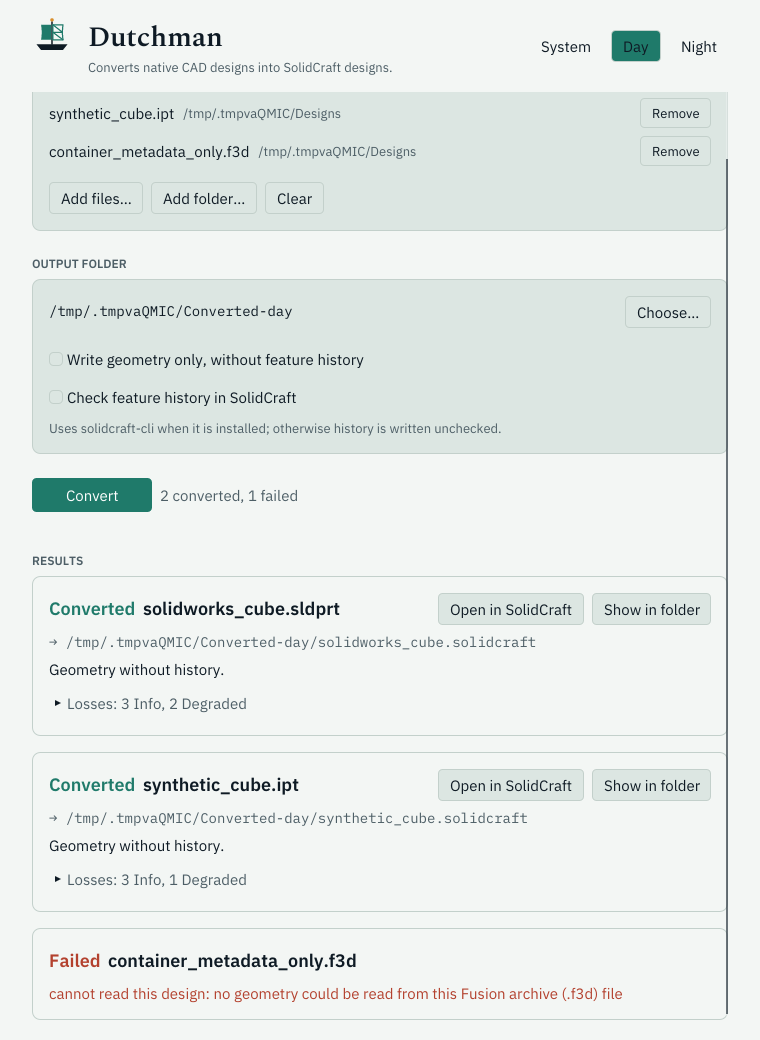
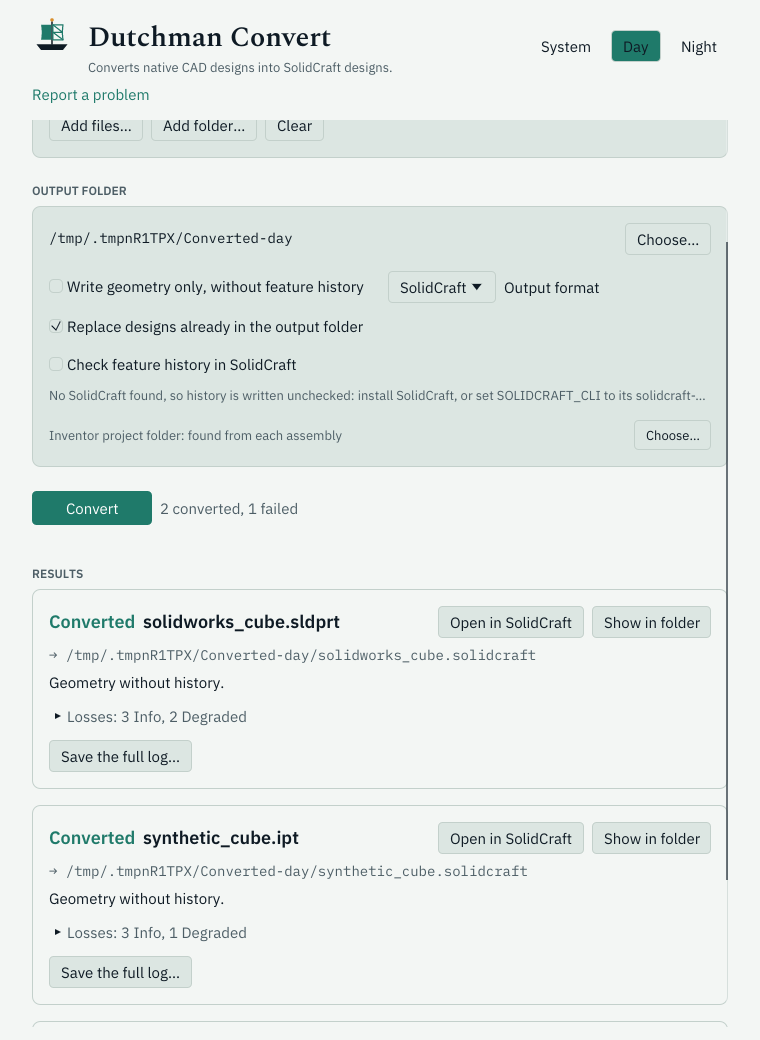
Name the desktop app Dutchman Convert
The app is Dutchman Convert, part of Dutchman CAD: its window title and
heading, the macOS bundle (Dutchman Convert.app) and the disk image's
volume. The README, guide, testing guide and issue form name it so, and
give the old bundle path for 0.1.5 and earlier. The README's screenshots
are rendered again.

The commands (dutchman, dutchman-gui, dutchman-mcp) and their
subcommands, the app id that settings are kept under, the bundle's
identifier and executable, and the download file names stay as they
were.

diff --git a/crates/dutchman-gui/src/lib.rs b/crates/dutchman-gui/src/lib.rs
@@ -1,4 +1,4 @@
-//! `dutchman-gui`: Dutchman as a small desktop app. Drop designs in, choose an output folder,
+//! `dutchman-gui`: Dutchman Convert, Dutchman as a small desktop app. Drop designs in, choose an output folder,
 //! convert, and read what became of each file. Conversions use the same shared code as the
 //! `dutchman` command, on background threads, so the window never waits on them.
 
@@ -9,8 +9,11 @@ pub mod worker;
 
 pub use app::App;
 
+/// The app's name, as its window and the macOS app bundle show it.
+pub const APP_NAME: &str = "Dutchman Convert";
+
 /// The desktop window's title, including the version of this build.
-pub const WINDOW_TITLE: &str = concat!("Dutchman ", env!("CARGO_PKG_VERSION"));
+pub const WINDOW_TITLE: &str = concat!("Dutchman Convert ", env!("CARGO_PKG_VERSION"));
 
 /// The issue form for a file that did not convert.
 pub const REPORT_PROBLEM_URL: &str = dutchman::issue::NEW_ISSUE;

diff --git a/crates/dutchman-gui/src/app.rs b/crates/dutchman-gui/src/app.rs
@@ -37,7 +37,7 @@ pub struct Row {
     pub job: Option<Job>,
 }
 
-/// Dutchman's window.
+/// Dutchman Convert's window.
 pub struct App {
     inputs: Vec<PathBuf>,
     out_dir: Option<PathBuf>,
@@ -346,7 +346,7 @@ impl App {
             ui.add_space(theme::SPACE_2);
             ui.vertical(|ui| {
                 ui.spacing_mut().item_spacing.y = 0.0;
-                ui.label(RichText::new("Dutchman").text_style(theme::title()));
+                ui.label(RichText::new(crate::APP_NAME).text_style(theme::title()));
                 ui.label(
                     RichText::new("Converts native CAD designs into SolidCraft designs.")
                         .small()

diff --git a/crates/dutchman-gui/tests/ui.rs b/crates/dutchman-gui/tests/ui.rs
@@ -52,7 +52,7 @@ fn the_window_offers_the_file_problem_form_and_names_its_version() {
     assert!(harness.query_by_label("Report a problem").is_some());
     assert_eq!(
         dutchman_gui::WINDOW_TITLE,
-        format!("Dutchman {}", env!("CARGO_PKG_VERSION"))
+        format!("Dutchman Convert {}", env!("CARGO_PKG_VERSION"))
     );
     assert_eq!(
         dutchman_gui::REPORT_PROBLEM_URL,

diff --git a/docs/guide.md b/docs/guide.md
@@ -18,35 +18,36 @@ reading what the conversion reports, and opening the result in SolidCraft.
 
 ### macOS: the app
 
-From 0.1.3 on, each release has `dutchman-VERSION-macos-universal.dmg`: **Dutchman.app**, for
-Apple silicon and Intel Macs alike, with the `dutchman` and `dutchman-mcp` commands inside it.
+From 0.1.3 on, each release has `dutchman-VERSION-macos-universal.dmg`: **Dutchman
+Convert.app** (named **Dutchman.app** in 0.1.5 and earlier), for Apple silicon and Intel Macs
+alike, with the `dutchman` and `dutchman-mcp` commands inside it.
 
-1. Open the disk image and drag **Dutchman** onto **Applications**.
-2. Open Dutchman from Applications.
+1. Open the disk image and drag **Dutchman Convert** onto **Applications**.
+2. Open Dutchman Convert from Applications.
 
 #### Opening the app the first time
 
-Dutchman is not signed with an Apple Developer ID, so the first time you open it macOS stops
-it with this box:
+Dutchman Convert is not signed with an Apple Developer ID, so the first time you open it macOS
+stops it with this box (shown here for a release that named the app Dutchman):
 
 <img alt="The macOS box: “Dutchman” Not Opened. Apple could not verify “Dutchman” is free of malware that may harm your Mac or compromise your privacy. Buttons: Move to Trash, Done." src="images/macos-not-opened.png" width="260">
 
 Click **Done**, not Move to Trash, then:
 
 1. Open **System Settings** › **Privacy & Security**.
-2. Scroll down to **Security**. It says “Dutchman” was blocked to protect your Mac.
+2. Scroll down to **Security**. It says “Dutchman Convert” was blocked to protect your Mac.
 3. Click **Open Anyway**, enter your password, then click **Open Anyway** in the box that
    follows.
 
 <img alt="System Settings, Privacy & Security, Security: “Dutchman” was blocked to protect your Mac, with an Open Anyway button." src="images/macos-open-anyway.png" width="450">
 
-macOS remembers the choice; from then on Dutchman opens like any other app. Right-click ›
+macOS remembers the choice; from then on Dutchman Convert opens like any other app. Right-click ›
 Open, which older macOS versions offered, no longer gets past the box.
 
 Or clear the download's quarantine flag once, in Terminal:
 
 ```sh
-xattr -dr com.apple.quarantine /Applications/Dutchman.app
+xattr -dr com.apple.quarantine "/Applications/Dutchman Convert.app"
 ```
 
 The app is signed ad hoc, so macOS never calls it “damaged”. If it does, the download was
@@ -60,9 +61,11 @@ run too.
 To use the commands from Terminal, link them onto your `PATH`:
 
 ```sh
-sudo ln -sf /Applications/Dutchman.app/Contents/Helpers/dutchman /usr/local/bin/dutchman
-sudo ln -sf /Applications/Dutchman.app/Contents/Helpers/dutchman-mcp /usr/local/bin/dutchman-mcp
+sudo ln -sf "/Applications/Dutchman Convert.app/Contents/Helpers/dutchman" /usr/local/bin/dutchman
+sudo ln -sf "/Applications/Dutchman Convert.app/Contents/Helpers/dutchman-mcp" /usr/local/bin/dutchman-mcp
 ```
+
+With 0.1.5 or earlier, write `/Applications/Dutchman.app` in these commands instead.
 
 ### From a release archive
 

diff --git a/README.md b/README.md
@@ -1,10 +1,10 @@
 <h1>
-  <img alt="Dutchman" src="assets/logo/dutchman-lockup.png#gh-light-mode-only" width="252">
-  <img alt="Dutchman" src="assets/logo/dutchman-lockup-night.png#gh-dark-mode-only" width="252">
+  <img alt="Dutchman Convert" src="assets/logo/dutchman-lockup.png#gh-light-mode-only" width="252">
+  <img alt="Dutchman Convert" src="assets/logo/dutchman-lockup-night.png#gh-dark-mode-only" width="252">
 </h1>
 
-Dutchman ferries CAD designs between formats: it converts native CAD designs into open,
-editable models. Reading the native file is
+Dutchman Convert, part of Dutchman CAD, ferries CAD designs between formats: it converts
+native CAD designs into open, editable models. Reading the native file is
 done by [cadmpeg](https://github.com/cadmpeg/cadmpeg); Dutchman maps cadmpeg's model onto a
 target format, starting with [SolidCraft](https://github.com/tangency-labs/solidcraft) designs.
 
@@ -27,7 +27,8 @@ dutchman convert part.f3d part.solidcraft
 Not sure which Mac you have? Apple menu › **About This Mac**: a chip named Apple M… is Apple silicon; a processor named Intel… is Intel.
 <!-- /downloads -->
 
-Each archive holds `dutchman`, `dutchman-mcp` and the desktop app, `dutchman-gui`.
+Each archive holds `dutchman`, `dutchman-mcp` and the desktop app, Dutchman Convert
+(`dutchman-gui`).
 [Getting started](docs/guide.md) shows how to check it, install it and convert a sample in a
 minute. Every release is on the [releases page](https://github.com/dutchman-cad/dutchman/releases).
 
@@ -94,15 +95,16 @@ its **Output format** choice offers a FreeCAD macro, the window title shows its 
 `dutchman-gui --version` and `--help` print without opening a window, a **Report a
 problem** link opens the **A file didn't convert** form, and a failed file's **Report this
 on GitHub** opens that form filled in with the version, system, error and an anonymous
-report.
+report. On main, in the next release, the app is named **Dutchman Convert**: its window, and
+on macOS **Dutchman Convert.app**; the commands keep their names.
 
 <picture>
   <source media="(prefers-color-scheme: dark)" srcset="docs/images/dutchman-gui-night.png">
-  <img alt="The Dutchman app after converting three files: two converted, one failed with its reason" src="docs/images/dutchman-gui-day.png" width="480">
+  <img alt="The Dutchman Convert app after converting three files: two converted, one failed with its reason" src="docs/images/dutchman-gui-day.png" width="480">
 </picture>
 
-On macOS it comes as **Dutchman.app** in a disk image (from 0.1.3 on): open it and drag
-Dutchman onto Applications in the window that appears (see
+On macOS it comes as **Dutchman Convert.app** in a disk image (**Dutchman.app** in 0.1.5 and
+earlier, from 0.1.3 on): open it and drag it onto Applications in the window that appears (see
 [opening it the first time](docs/guide.md#opening-the-app-the-first-time): approve it once
 and the commands inside it run too). It ships in the
 release archives beside `dutchman` (from 0.1.1 on), or build it from source

diff --git a/docs/releasing.md b/docs/releasing.md
@@ -11,7 +11,7 @@ A release is cut from `main` once CI is green there.
 3. Pushing the tag runs the `Release builds` workflow. It keeps each platform's archive
    (`scripts/package-archive.sh`: `dutchman`, `dutchman-mcp` and `dutchman-gui`, with LICENSE,
    NOTICE, README and a SHA-256), and the macOS disk image (`scripts/macos-dmg.sh`:
-   Dutchman.app, universal, signed ad hoc), as workflow artifacts; both Mac targets build on
+   Dutchman Convert.app, universal, signed ad hoc), as workflow artifacts; both Mac targets build on
    one Apple silicon runner. Attach them to a GitHub release for the tag. Its notes start with
    the download table, `scripts/downloads.py X.Y.Z`, then the changelog entry. The workflow
    also runs on demand (`gh workflow run release-build.yml`) and for a pull request that

diff --git a/docs/testing-your-library.md b/docs/testing-your-library.md
@@ -25,8 +25,8 @@ including ones you cannot open any more.
 ## 1. Install
 
 1. Install Dutchman 0.1.4 or newer, as [the guide](guide.md#install) shows: on a Mac, the
-   disk image (`Dutchman.app`, with the `dutchman` command inside it, which the guide shows
-   how to put on your `PATH`); elsewhere, the release archive. Check that `dutchman --version`
+   disk image (`Dutchman Convert.app`, or `Dutchman.app` in 0.1.5 and earlier, with the
+   `dutchman` command inside it, which the guide shows how to put on your `PATH`); elsewhere, the release archive. Check that `dutchman --version`
    prints the version.
 2. Optional, recommended: install SolidCraft 0.18.2 or newer (Dutchman is tested with 0.18.2,
    0.19.0, and 0.20.0). With it, Dutchman checks every converted design

diff --git a/CHANGELOG.md b/CHANGELOG.md
@@ -52,6 +52,11 @@ report's schema name changes when a field does).
 
 ### Desktop app
 
+- The desktop app is named **Dutchman Convert**, part of Dutchman CAD: its window title and
+  heading, and on macOS **Dutchman Convert.app** with a "Dutchman Convert" disk image volume.
+  The commands (`dutchman`, `dutchman-gui`, `dutchman-mcp`), their subcommands, the settings
+  and the download file names are unchanged. A Mac with 0.1.5 or earlier keeps
+  `/Applications/Dutchman.app` until it is replaced.
 - The macOS disk image opens on an installation window: Dutchman and Applications side by
   side with an arrow between them on Dutchman's own background, and the read-me below. If
   the window cannot be laid out while packaging, the image is built plain as before.
